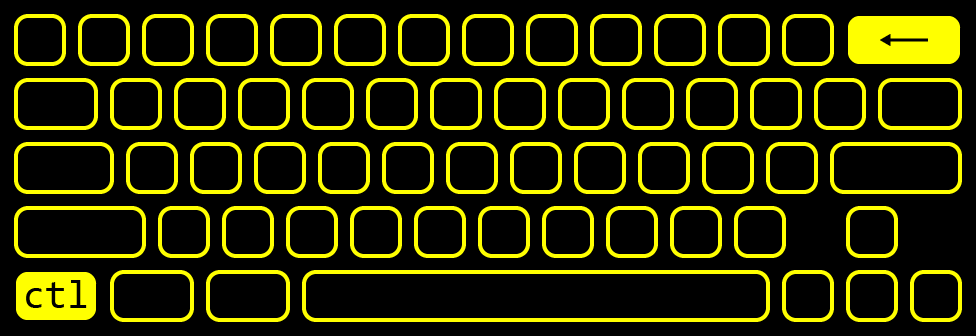
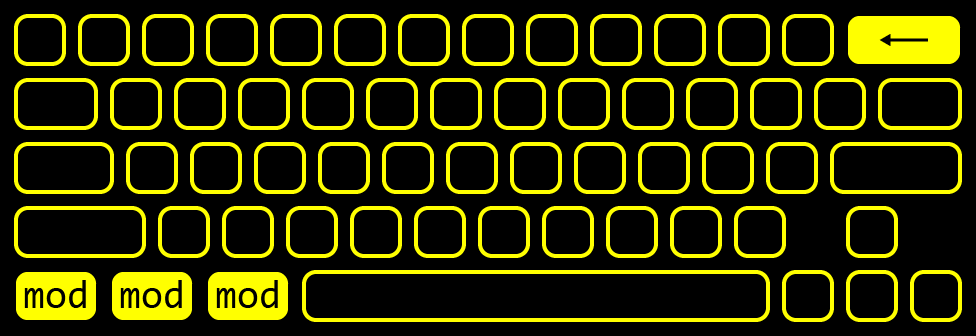
++

Changed region(s): [[0.0, 0.8036, 0.3074, 0.9821]]

diff --git a/_layouts/home.html b/_layouts/home.html
@@ -33,6 +33,7 @@ layout: default
             </ul>
           </li>
           <li><a href="#learn">Learn</a></li>
+          <li><a href="#gallery">Gallery</a></li>
           <li><a href="#philosophy">Philosophy</a></li>
         </ul>
       </div>
@@ -84,7 +85,7 @@ layout: default
       </table>
     </div>
     <p>These leading numbers correspond to <code>X</code> and <code>Y</code> coordinates, respectively. Most commands have both verbose and terse invocations. For example arpeggios can be invoked not only with <code>arpeggio</code> but also with <code>arp</code> and <code>a</code>. All commands are executed with the <em>&crarr;</em> / <em>return</em> / <em>enter</em> key.</p> 
-    <p>Interactions are simply "everything else" you do with the keyboard; our silent movements through Yggdrasil's data streams. While some interactions technically manipulate sound under certain conditions (such as <em>ctrl</em> + <em>backspace</em> to clear a selected slot), most are simply affordances for navigation &mdash; things like toggling views, dismissing messages, or paging through through command history.</p>
+    <p>Interactions are simply "everything else" you do with the keyboard; our silent movements through Yggdrasil's data streams. While some interactions technically manipulate sound under certain conditions (such as <em>mod</em> + <em>backspace</em> to clear a selected slot), most are simply affordances for navigation &mdash; things like toggling views, dismissing messages, or paging through through command history. <em>ctrl</em>, <em>alt</em>, <em>opt</em>, and <em>cmd</em> are functionally identical and collectively referred to as <em>mod</em>.</p>
     <p>Let's go.</p>
   </div>
   <div class="col-md-5 col-sm-12">
@@ -224,6 +225,18 @@ layout: default
 {% for lesson in lessons %}
 {% include lessons.html %}
 {% endfor %}
+
+<div class="row">
+  <div class="col-md-10 offset-md-1 col-sm-12">
+    <hr>
+    <h1 id="gallery" class="my-5">Gallery<a href="#gallery" class="link-anchor"><i class="fas fa-link"></i></a></h1>
+    <ul class="three-col mb-5"> 
+    {% for item in site.data.gallery.gallery %}
+      <li> {{ item | markdownify }}</li>
+    {% endfor %}
+    </ul>
+  </div>
+</div>
 
 <div class="row">
   <div class="col-md-10 offset-md-1 col-sm-12">

diff --git a/collections/_lessons/lesson-tracker-planes.md b/collections/_lessons/lesson-tracker-planes.md
@@ -4,4 +4,10 @@ topic: Tracker Planes
 ymode: false
 image: tracker-planes.png
 ---
-Imagine the tracker with five planes: notes, samples, macros, velocities, and phenomena. With the [view](#view-command-view) command you can toggle each plane on and off. Each slot can have up to one value stored in each plane.
+Imagine the tracker with five planes: notes, samples, macros, velocities, and phenomena. With the [view](#view-command-view) command you can toggle each plane on and off.
+
+- Note: stores note data. This can be viewed as IPN, YGG, MIDI, or frequency.
+- YPC: stores samples name.
+- Macro: stores "macro controls" of the synth. Each synth voice has two macro controls with values that range from 0 - 99.
+- Velocity: stores velocity data.
+- Phenomena: stores up to one [phenomenon](https://northern-information.github.io/yggdrasil-docs/#glossary-phenomenon).

diff --git a/collections/_commands/synth.md b/collections/_commands/synth.md
@@ -2,11 +2,11 @@
 weight: 4.1
 name: Synth
 images: ["clade-synth.png"]
-signatures: ["_X_ synth;v;_VALUE_", "_X_ synth;voice;_VALUE_", "_X_ synth;c1;_VALUE_", "_X_ synth;c2;_VALUE_", "synth;enc"]
-examples: ["1 synth;v;2", "1 synth;v;toast", "1 synth;c1;99", "synth;enc"]
+signatures: ["_X_ synth;v;_VALUE_", "_X_ synth;voice;_VALUE_", "_X_ synth;m1;_VALUE_", "_X_ synth;m2;_VALUE_", "synth;enc"]
+examples: ["1 synth;v;2", "1 synth;v;toast", "1 synth;m1;99", "synth;enc"]
 category: mixer
 invocations: ["synth"]
-arguments: ["voice", "v", "c1", "c2", "enc"]
+arguments: ["voice", "v", "m1", "m2", "enc"]
 ---
 Set the track's synth voice and macro control levels. Use `synth;enc` to toggle takeover mode for macro controls with norns encoders 2 and 3.
 

diff --git a/collections/_changelog/v1.0.11.md b/collections/_changelog/v1.0.11.md
@@ -1,0 +1,11 @@
+---
+order: 12
+version: v1.0.11
+---
+- **NEW** Cut, copy, and paste with _mod_ + _x_, _c_, and _v_.
+- **CHANGE** _ctrl_, _alt_, _opt_, and _cmd_ have identical behavior. Collectively these are now simply: _mod_ (modify).
+- **CHANGE** Focus with _mod_ + arrow keys. Use _shift_ to move in increments of 10.
+- **CHANGE** Use _shift_ to move in increments of 10 with Y Mode _h_, _j_, _k_, and _l_.
+- **CHANGE** Remove adaptive increment/decrement controls.
+- **CHANGE** Synth macros are invoked with `m` instead of `c`.
+- **FIX** Cursor appears in the editor field in Y Mode.

diff --git a/collections/_lessons/lesson-editor.md b/collections/_lessons/lesson-editor.md
@@ -9,7 +9,7 @@ image: screenshot-editor.png
 - _&larr;_ and _&rarr;_ move the text cursor.
 - _tab_ and _tab_ + _shift_ cycle through the attributes.
 - _&uarr;_ and _&darr;_ also cycle through the attributes.
-- _ctrl_ + arrows aborts and moves to adjacent slot.
+- _mod_ + arrows aborts and moves to adjacent slot.
 - Pressing _enter_ at any time commits a **valid** form.
 - Pressing enter will do nothing to an **invalid** form.
 - Entries are validated in real-time. Invalid submissions are not allowed.

diff --git a/collections/_lessons/lesson-y-mode-focus-select-clear.md b/collections/_lessons/lesson-y-mode-focus-select-clear.md
@@ -1,0 +1,7 @@
+---
+weight: 2.1
+topic: Y Mode Focus, Select & Clear
+ymode: true
+image: keyboard-y-mode-focus-select-clear.png
+---
+While in Y Mode, use _h_, _j_, _k_, and _l_ to to change focus. Press _&crarr;_ to select and _backspace_ / _delete_ to clear.  Use _shift_ to move in increments of 10. Note _&crarr;_, _backspace_, and _shift_ are also eternal interactions.

diff --git a/collections/_lessons/lesson-focus-select-clear.md b/collections/_lessons/lesson-focus-select-clear.md
@@ -1,0 +1,7 @@
+---
+weight: 2
+topic: Focus, Select & Clear
+ymode: false
+image: keyboard-focus-select-clear.png
+---
+Use _mod_ + _&uarr;_, _&larr;_, _&darr;_, and _&rarr;_ to to change focus. Press _&crarr;_ to select and _backspace_ / _delete_ to clear. Use _shift_ to move in increments of 10. Note _&crarr;_, _backspace_, and _shift_ are also Y Mode interactions.

diff --git a/collections/_commands/copy.md b/collections/_commands/copy.md
@@ -1,0 +1,9 @@
+---
+weight: 5
+name: Copy
+signatures: ["_X1_ _Y1_ copy _X2_ _Y2_", "_X1_ cp _X2_"]
+examples: ["1 1 copy 1 3", "1 cp 2"]
+category: core
+invocations: ["copy", "cp"]
+---
+Copy and paste all slots in a track or individual slots. To also copy track attributes (such as clade or level) use `duplicate` instead.

diff --git a/collections/_lessons/lesson-clear-values.md b/collections/_lessons/lesson-clear-values.md
@@ -1,7 +1,7 @@
 ---
-weight: 5
+weight: 5.1
 topic: Clear Values
 ymode: false
 image: keyboard-clear-values.png
 ---
-With slots or tracks selected, hold _ctrl_ and press _backspace_ / _delete_ to clear all values.
+With slots or tracks selected, hold _mod_ and press _backspace_ / _delete_ to clear all values.

diff --git a/collections/_commands/duplicate.md b/collections/_commands/duplicate.md
@@ -1,0 +1,9 @@
+---
+weight: 5.1
+name: Duplicate
+signatures: ["_X1_ duplicate _X2_", "_X1_ dp _X2_"]
+examples: ["1 duplicate 3", "1 dp 2"]
+category: core
+invocations: ["duplicate", "dp"]
+---
+Duplicate an entire track at position X1 to position X2.

diff --git a/collections/_lessons/lesson-cut-copy-paste.md b/collections/_lessons/lesson-cut-copy-paste.md
@@ -1,0 +1,7 @@
+---
+weight: 5.2
+topic: Cut, Copy, & Paste
+ymode: false
+image: keyboard-cut-copy-paste.png
+---
+Cut, copy, and paste selected tracks and slots. It works just like your favorite spreadsheet program. Interactions are the same in Y Mode.

diff --git a/collections/_lessons/lesson-mod.md b/collections/_lessons/lesson-mod.md
@@ -1,0 +1,7 @@
+---
+weight: 5
+topic: Modifier Keys
+ymode: false
+image: keyboard-mod.png
+---
+_ctrl_, _alt_, _opt_, and _cmd_ and all do the same thing. Collectively, these keys are simply _mod_. Let there be peace among the kingdoms.
